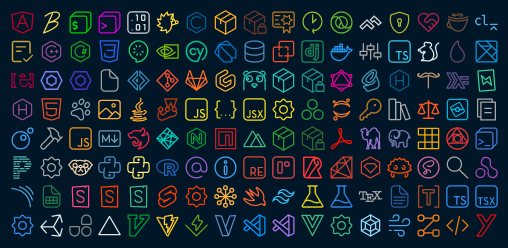
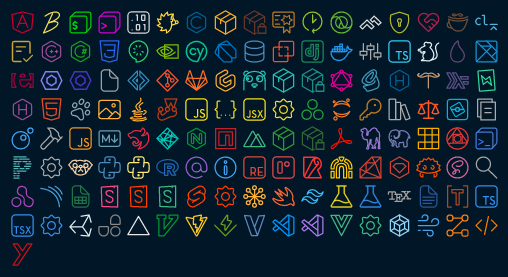
feat: add rome

diff --git a/src/files.ts b/src/files.ts
@@ -270,6 +270,7 @@ export const files: IconMap = {
     'rollup.config.prod.vendor.js',
     'rollup.config.prod.vendor.ts',
   ],
+  rome: ['rome.json'],
   sonar: ['sonar-project.properties'],
   svelte_config: ['svelte.config.js', 'svelte.config.cjs'],
   tailwind: [
